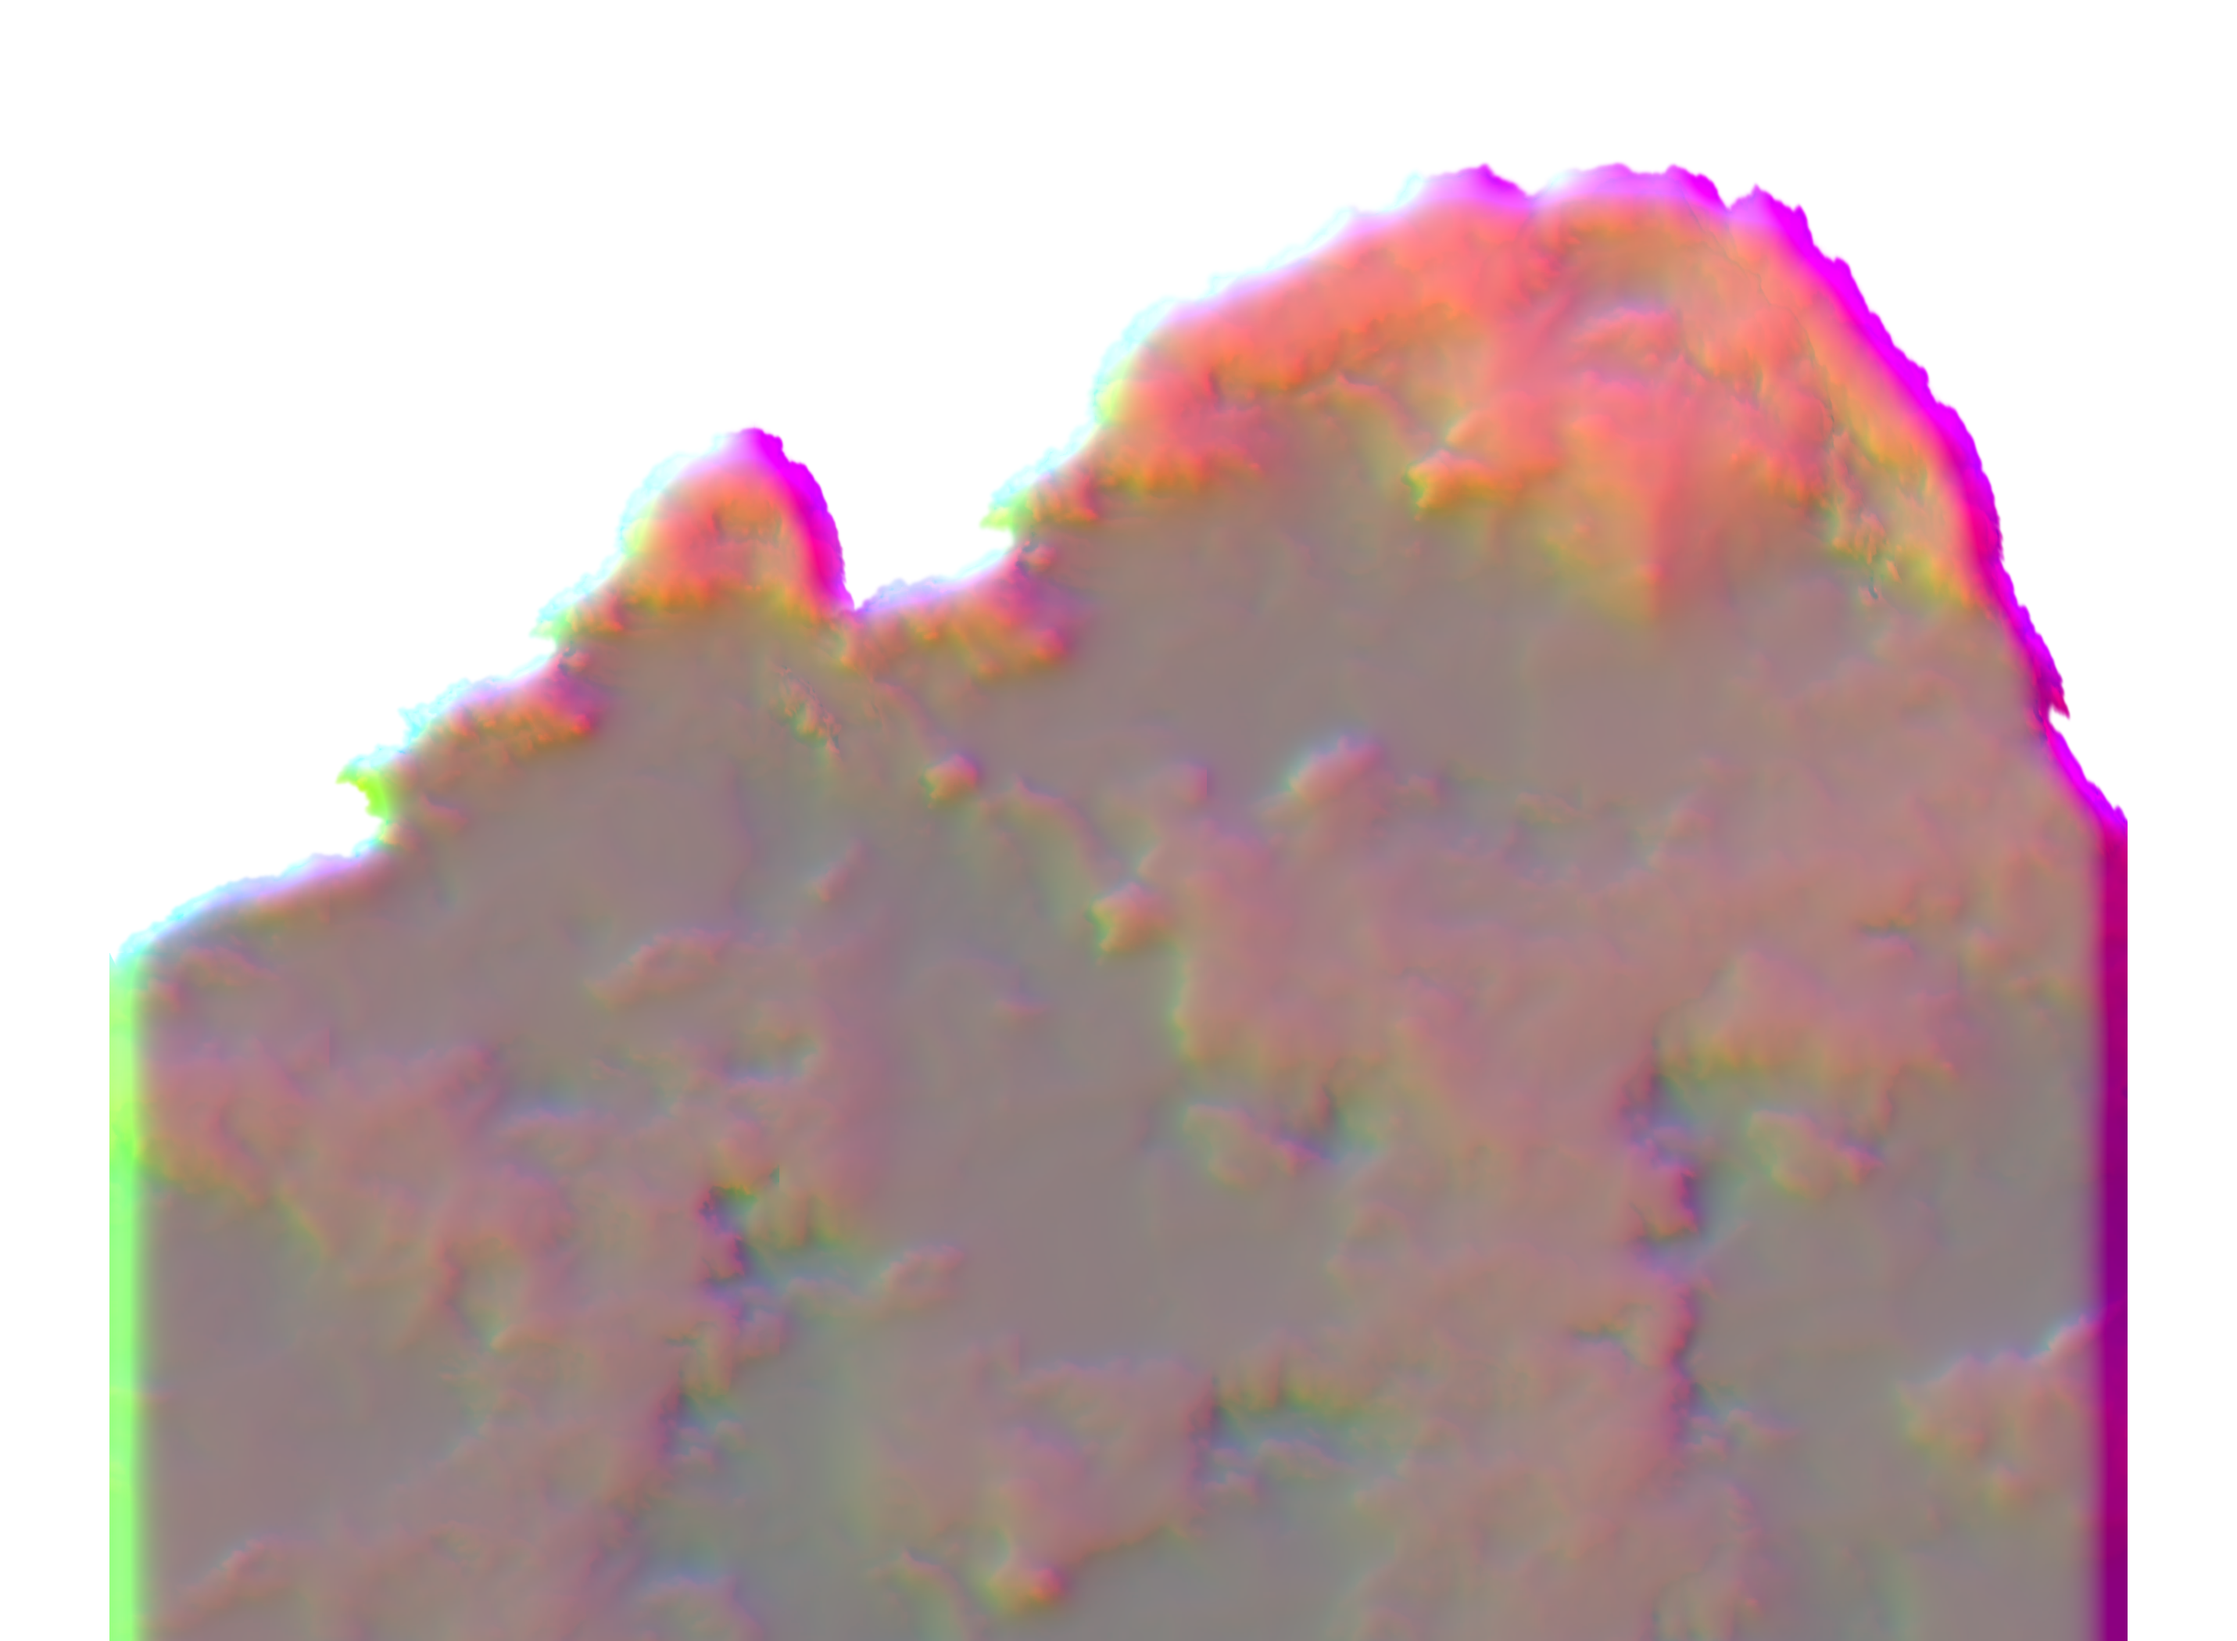
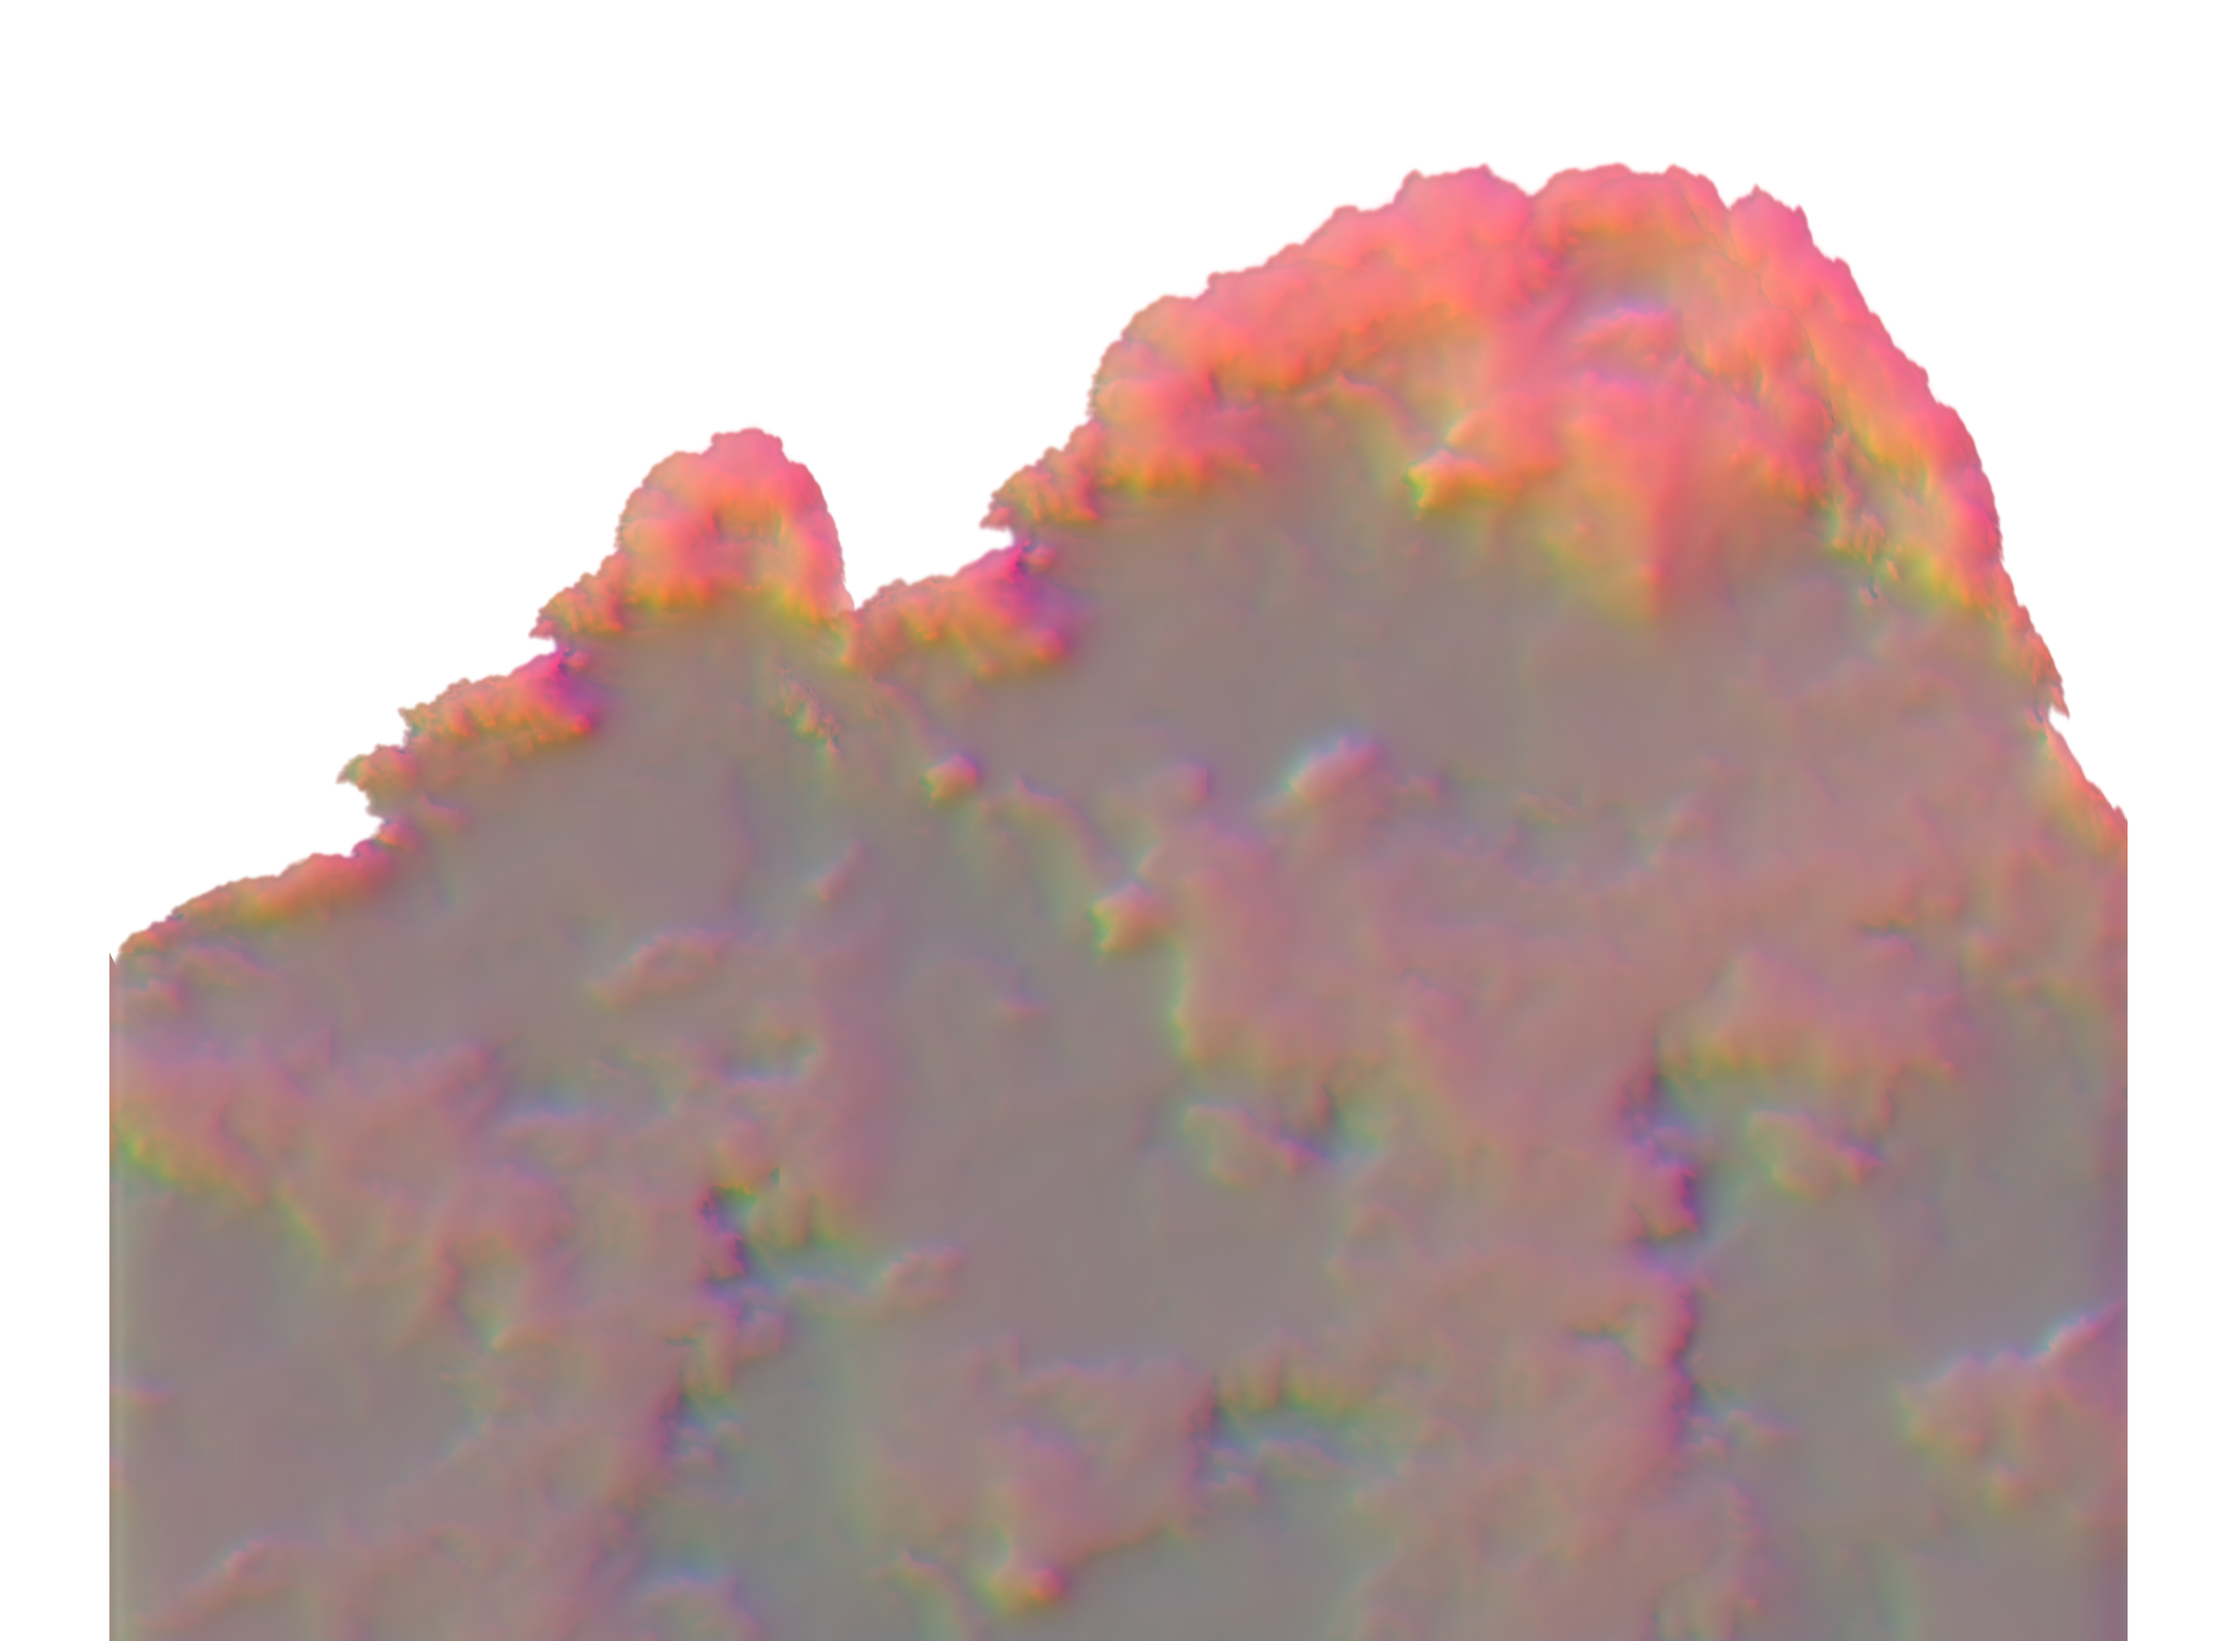
Lab: climb afternoon round 2
Claude-Session: https://claude.ai/code/session_01RqENhngNCzDFmJWDZueXGV

Changed region(s): [[0.0311, 0.0929, 0.964, 1.0]]

diff --git a/src/app/lab/afternoon/afternoonEngine.js b/src/app/lab/afternoon/afternoonEngine.js
@@ -469,7 +469,14 @@ void main() {
   // 0 on the crowns, 1 low in a tower's body, where its own mass and the
   // towers round it shade it; and the lobes' undersides (faces turned down,
   // toward the street) see neither the sun nor the open dome
-  float deep = smoothstep(1.2, 5.0, tup);
+  // Measured only by the coverage above, that boundary runs at one depth
+  // under the whole silhouette, a lit band of even width down every flank.
+  // The billows decide it instead: a lobe that bulges out of the outline (the
+  // fine coverage over the coarse) and the photograph's bright billows stand
+  // out as crowns deeper in, the notches between lobes and its darker tone go
+  // into the body almost at the edge.
+  float cvx = textureLod(uCloud, cuv, 2.5).a - textureLod(uCloud, cuv, 5.5).a;
+  float deep = smoothstep(1.2, 5.0, tup - 2.5 * (tn - 0.45) - 3.0 * mid - 5.0 * cvx + 0.6);
   float down = clamp(cn.y * 2.2, 0.0, 1.0);
   // Each billow takes the sun on the face turned toward it; its far side and
   // the photograph's own shaded creases stay in the shade. The reach through
@@ -503,14 +510,25 @@ void main() {
   // it (lighter in the crowns, whose tone already draws them)
   float fine = textureLod(uCloud, cuv, 1.0).r - textureLod(uCloud, cuv, 4.0).r;
   vec3 cloud = min(mix(shadeC, litC, sunK) * (1.0 + (0.55 * fine + 0.35 * mid) * (0.4 + 0.6 * deep)), vec3(1.07));
-  // A thin bright rim just inside the silhouette, where the cloud thins to
-  // its edge and the light comes through it: warm on the side toward the
-  // sun, the dome's pale blue-white on the far side.
-  vec2 ge = vec2(g5.x * rc + g5.y * rs, -g5.x * rs + g5.y * rc);
-  float edgeSun = smoothstep(-0.1, 0.7, dot(normalize(-ge + 1e-6), sdir));
+  // Where the cloud thins to its edge the sun comes through it, so a sunlit
+  // billow's top ends in a bright fringe. That is only true where the sun
+  // stands: the edge has to face it (squared, so it fades fast as the edge
+  // turns away), face up the tower (a billow's top, never an underside or a
+  // flank turned down toward the street) and stand high, where the sun
+  // reaches. Everywhere else there is no rim at all: the shaded flanks and
+  // the foot end in the dome's grey-blue, thinning softly into the sky with
+  // the plate's own alpha, never in a bright band.
+  vec2 en = normalize(-g5 + 1e-6);   // outward, on the card (y down the tower)
+  vec2 ge = vec2(en.x * rc + en.y * rs, -en.x * rs + en.y * rc);
+  float edgeSun = smoothstep(-0.1, 0.7, dot(ge, sdir));
+  float edgeUp = smoothstep(-0.1, 0.6, -en.y);
   float thin = clamp((1.0 - textureLod(uCloud, cuv, 2.2).a) * 3.2, 0.0, 1.0) * smoothstep(0.25, 0.9, cl.a);
-  vec3 rimC = mix(vec3(0.9, 0.95, 1.0), litC * vec3(1.02, 1.0, 0.97), edgeSun);
-  cloud = mix(cloud, max(cloud, rimC), thin * (0.55 + 0.4 * edgeSun));
+  float rimW = thin * edgeSun * edgeSun * edgeUp * smoothstep(0.35, 0.85, reach) * (1.0 - deep) * 0.8;
+  cloud = mix(cloud, max(cloud, litC * vec3(1.02, 1.0, 0.97)), rimW);
+  // the shade side's edge: the dome's light through thin cloud, a touch
+  // bluer and no brighter than the shade it bounds
+  float shEdge = thin * (1.0 - edgeSun) * 0.5;
+  cloud = mix(cloud, min(cloud, mix(shadeC, clear, 0.35)), shEdge);
   // The same air as the sky: a few percent of the sky's own colour veils the
   // cloud, a little more low in the towers where there is more air in between.
   cloud = mix(cloud, clear, 0.04 + 0.04 * deep);
@@ -519,7 +537,7 @@ void main() {
   // sun is low, so the edge never sits in a dull grey band.
   float ring = max(textureLod(uCloud, cuv, 1.8).a - cl.a, 0.0);
   vec3 ringC = mix(vec3(0.72, 0.85, 1.0), vec3(1.0, 0.84, 0.7), low * low);
-  clear = mix(clear, ringC, clamp(ring * edgeSun * 0.3, 0.0, 0.16));
+  clear = mix(clear, ringC, clamp(ring * edgeSun * edgeSun * edgeUp * 0.3, 0.0, 0.16));
   float ca = cl.a;
   vec3 skyS = mix(clear, cloud, ca);
   // back through the scan grade below, so the sky lands where it was drawn;

diff --git a/tools/depth/bakes/afternoon/relief.py b/tools/depth/bakes/afternoon/relief.py
@@ -13,8 +13,13 @@ is the plate's own tone, read as a height over the card: a billow bulges
 toward us where it is brightest, its shaded flank falls away from the light,
 and the crease where it tucks under the next is the photograph's own darker
 tone, never a drawn outline. Two scales of it: the billows (TONE_FINE) on the
-lobes they make up (TONE_BROAD). The whole rolls off to the silhouette with
-the blurred coverage. It is seen only through two blurs, weighted 60/40
+lobes they make up (TONE_BROAD). The whole rolls off only gently to the
+silhouette (EDGE_HEIGHT over the blurred coverage): the height is never
+dragged to zero across the cut, and every blur is weighted by the coverage,
+so the cut itself makes no slope. Read as a steep face all the way round,
+the cut lit as an even band down every sunward flank, a cut-out's outline
+rather than billows; now the edge's light is the billows' own. It is seen
+only through two blurs, weighted 60/40
 toward the big one (about 34 and 10 plate px across), and stored as its slope:
 G across the card, B down it, 0.5 flat, +-SLOPE/2 card px per px. Written
 lossless: the lossy codec's chroma subsampling would bleed the slope into R.
@@ -31,7 +36,7 @@ W = sys.argv[2] if len(sys.argv) > 2 else None
 # the tone as a height: the billows on their lobes (card px of blur, weights)
 TONE_FINE, TONE_BROAD = (6, 0.55), (36, 0.45)
 TONE_HEIGHT = 280  # card px of height per unit of tone
-EDGE_HEIGHT = 140  # card px the body stands above its edge
+EDGE_HEIGHT = 36  # card px the body stands above its edge (a gentle limb)
 BLUR_BIG, BLUR_SMALL = 24, 7
 SLOPE = 4.0  # the slope channels span -SLOPE/2..SLOPE/2
 
@@ -47,8 +52,8 @@ def wblur(x, w, s):
 
 cov = cv2.GaussianBlur(A, (0, 0), 24)
 tone = TONE_FINE[1] * wblur(T, A, TONE_FINE[0]) + TONE_BROAD[1] * wblur(T, A, TONE_BROAD[0])
-hgt = TONE_HEIGHT * tone * np.clip(cov * 1.4, 0, 1) + EDGE_HEIGHT * cov
-hgt = 0.6 * cv2.GaussianBlur(hgt, (0, 0), BLUR_BIG) + 0.4 * cv2.GaussianBlur(hgt, (0, 0), BLUR_SMALL)
+hgt = TONE_HEIGHT * tone + EDGE_HEIGHT * cov
+hgt = 0.6 * wblur(hgt, A, BLUR_BIG) + 0.4 * wblur(hgt, A, BLUR_SMALL)
 gy, gx = np.gradient(hgt)
 gx = np.clip(0.5 + gx / SLOPE, 0, 1)
 gy = np.clip(0.5 + gy / SLOPE, 0, 1)

diff --git a/tools/depth/bakes/afternoon/dewire.py b/tools/depth/bakes/afternoon/dewire.py
@@ -1,0 +1,45 @@
+"""Afternoon: drop the hairline wires right of the pole from the sky matte.
+
+    python3 -I tools/depth/bakes/afternoon/dewire.py [public/lab/afternoon/matte.png]
+
+The three thin wires that run from the utility pole up and out of the right
+edge of the frame are a pixel or two wide in the 2400 px plate. At the matte's
+half size they survive only as partial coverage that comes and goes along
+their length (about 0.65 to 0.97 sky), so live they print as faint dashed grey
+traces through the cumulus, a ghost of a wire rather than a wire. They are
+taken out of the matte (made sky): every thin feature there that a 5 px
+closing fills, away from the heavy wires and the pole (anything below 0.47
+sky, grown by 4 px) and only in the band of sky right of the pole they cross.
+bake.py runs this on the matte it writes; run alone it fixes matte.png in
+place and is idempotent.
+"""
+import sys
+
+import cv2
+import numpy as np
+
+
+def dewire(r):
+    """r: the half-size matte's sky channel, 0..255 (float32). Returns a copy."""
+    r = np.asarray(r, np.float32)
+    h, w = r.shape
+    k5 = np.ones((5, 5), np.uint8)
+    closed = cv2.erode(cv2.dilate(r, k5), k5)
+    heavy = cv2.dilate((r < 120).astype(np.uint8), cv2.getStructuringElement(cv2.MORPH_ELLIPSE, (9, 9))) > 0
+    yy, xx = np.mgrid[0:h, 0:w]
+    # right of the pole, above the roofs (fractions of the frame)
+    band = (xx >= 0.75 * w) & (yy >= 0.375 * h) & (yy <= 0.7 * h)
+    thin = (closed >= 250) & (r < 254) & ~heavy & band
+    out = r.copy()
+    out[thin] = 255
+    return out
+
+
+if __name__ == "__main__":
+    path = sys.argv[1] if len(sys.argv) > 1 else "public/lab/afternoon/matte.png"
+    bgr = cv2.imread(path, cv2.IMREAD_COLOR)
+    before = bgr[..., 2].astype(np.float32)
+    after = dewire(before)
+    bgr[..., 2] = np.round(after).astype(np.uint8)
+    cv2.imwrite(path, bgr, [cv2.IMWRITE_PNG_COMPRESSION, 9])
+    print(f"  {path}: {int((after != before).sum())} px of hairline wire made sky")

diff --git a/tools/depth/bakes/afternoon/bake.py b/tools/depth/bakes/afternoon/bake.py
@@ -38,7 +38,8 @@ Outputs (public/lab/afternoon), the formats afternoonEngine.js decodes:
   normal.png   R,G octahedral normal (engine camera space: x right, y up,
                z forward), B occluder thickness log2(m) over -2..4
   depth.png    R,G log2(metres)/12 in 16 bits, B the photo's sun mask m0
-  matte.png    half size: R sky, G cloud density
+  matte.png    half size: R sky (the hairline wires right of the pole taken
+               out by dewire.py), G cloud density
 and W/meta.json: camera, up, the fitted sun, and the pole and mast-arm
 capsules in camera space for the engine's exact thin-occluder shadows.
 """
@@ -52,6 +53,8 @@ import cv2
 HERE = os.path.dirname(os.path.abspath(__file__))
 sys.path.insert(0, os.path.join(HERE, "..", ".."))
 import kit  # noqa: E402
+sys.path.insert(0, HERE)
+from dewire import dewire  # noqa: E402
 
 W = sys.argv[1] if len(sys.argv) > 1 else "/tmp/claude-0/climb/afternoon/work/r1"
 OUT = sys.argv[2] if len(sys.argv) > 2 else "public/lab/afternoon"
@@ -349,6 +352,9 @@ dep8 = np.stack([q >> 8, q & 255, np.round(m0 * 255).astype(np.uint32)], -1).ast
 cv2.imwrite(OUT + "/depth.png", dep8[..., ::-1], [cv2.IMWRITE_PNG_COMPRESSION, 9])
 mat8 = np.stack([sky * ~wire, cl, np.zeros_like(cl)], -1).astype(np.float32)
 mat8 = cv2.resize(mat8, (Wd // 2, H // 2), interpolation=cv2.INTER_AREA)
+# the hairline wires right of the pole survive the half size only as dashed
+# partial coverage: made sky (dewire.py)
+mat8[..., 0] = dewire(mat8[..., 0] * 255) / 255
 cv2.imwrite(OUT + "/matte.png", np.round(np.clip(mat8, 0, 1) * 255).astype(np.uint8)[..., ::-1], [cv2.IMWRITE_PNG_COMPRESSION, 9])
 
 meta = {
